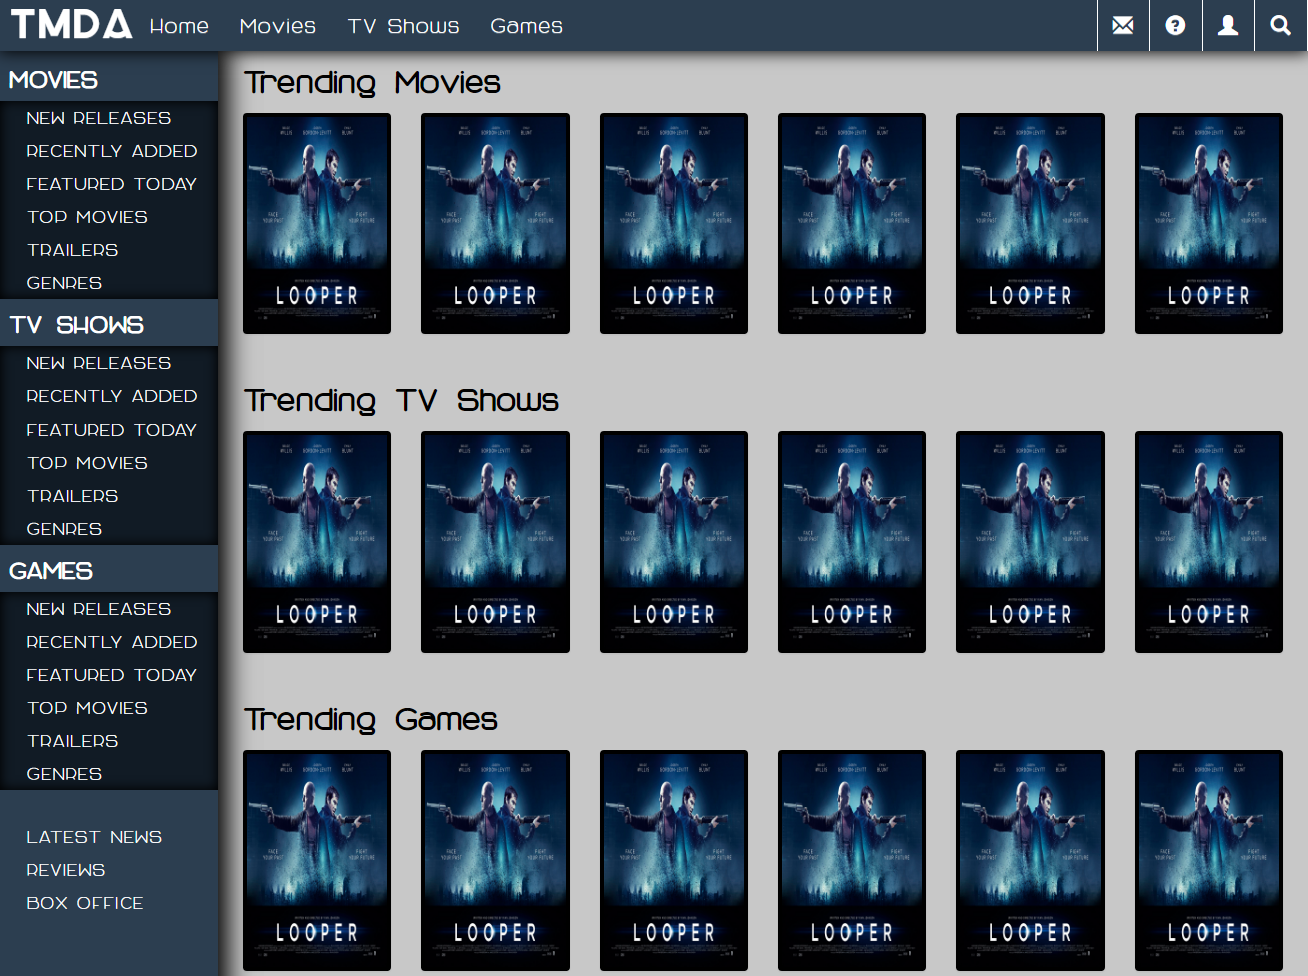
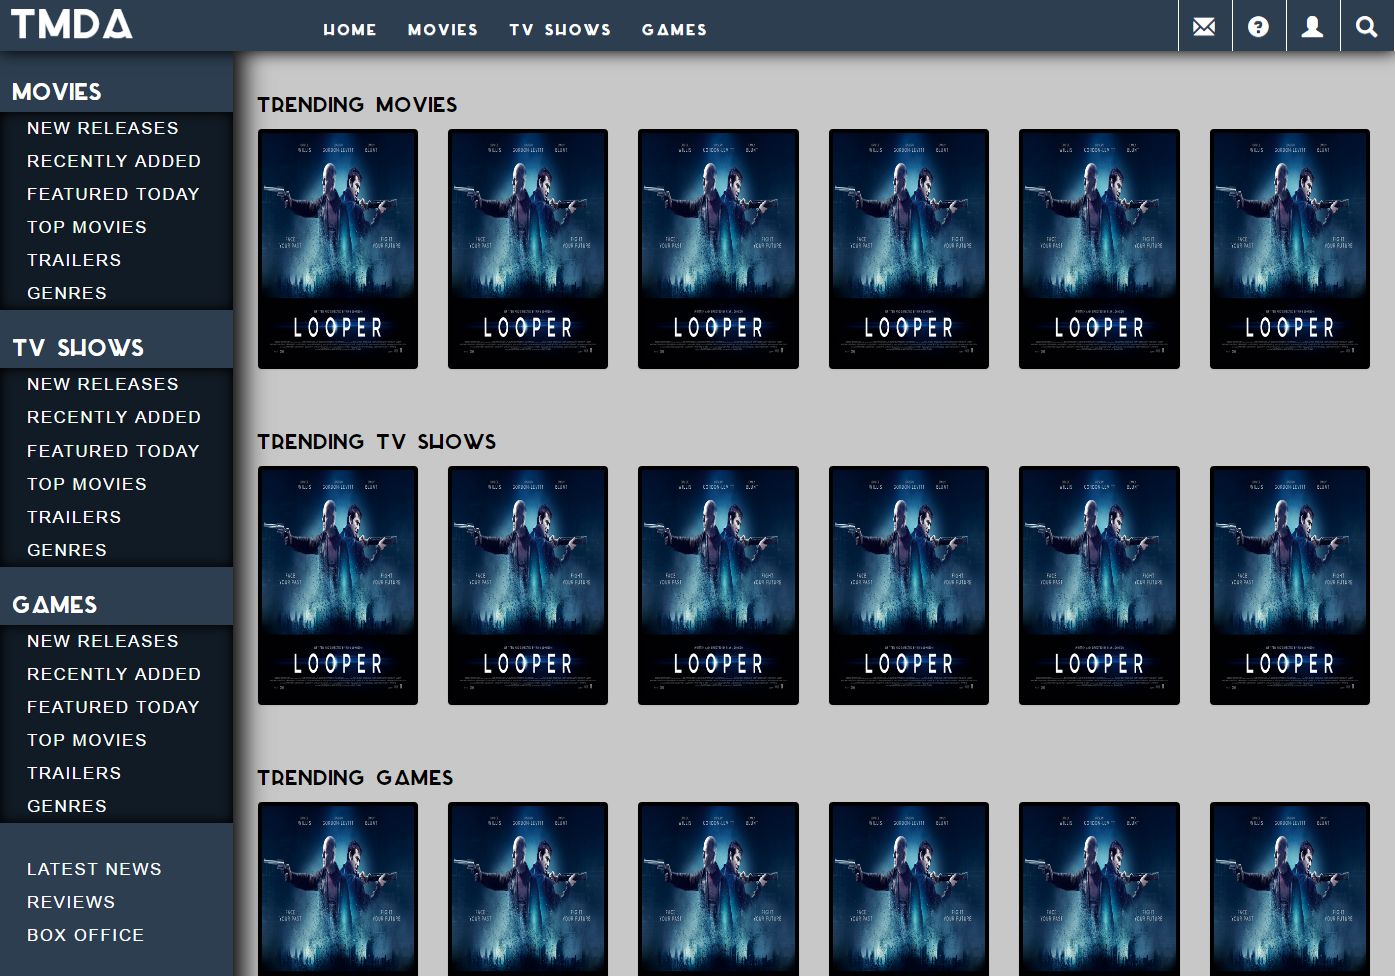
updated readme, projectimg, and typography

diff --git a/public/styles/mainstyle.css b/public/styles/mainstyle.css
@@ -23,7 +23,7 @@
   src: url("../fonts/Moderne-Sans.ttf") format("truetype"); }
 
 * {
-  font-family: 'magnitude'; }
+  font-family: 'azedo'; }
 
 a {
   color: white;
@@ -103,18 +103,19 @@ body {
       border-bottom: 0px solid transparent;
       box-shadow: 0px 0px 25px 1px black; }
       .main-wrapper .main-nav nav .navbar-header button span {
-        background-color: #c0392b; }
+        background-color: white; }
       .main-wrapper .main-nav nav .navbar-header .navbar-brand {
         font-family: "azedo";
         font-size: 4em;
         padding: 0;
         color: white;
         padding-left: 0.2em;
-        letter-spacing: 0em; }
+        letter-spacing: 0em;
+        padding-right: 3.1em; }
         .main-wrapper .main-nav nav .navbar-header .navbar-brand:hover {
           color: white; }
       .main-wrapper .main-nav nav #navbar-menu ul li a {
-        font-size: 1.4em; }
+        font-size: 1.5em; }
       .main-wrapper .main-nav nav #navbar-menu > .navbar-nav:nth-child(1) a:hover, .main-wrapper .main-nav nav #navbar-menu > .navbar-nav:nth-child(1) a:active, .main-wrapper .main-nav nav #navbar-menu > .navbar-nav:nth-child(1) a:focus {
         background-color: transparent; }
       .main-wrapper .main-nav nav .navbar-right {
@@ -137,9 +138,9 @@ body {
     min-height: 100vh; }
     .main-wrapper .main-content .aside-container .aside-row .sidebar .block h1 {
       color: white;
-      font-weight: 700;
+      font-weight: 0;
       padding-left: 0.4em;
-      font-size: 1.6em;
+      font-size: 2.3em;
       text-transform: uppercase;
       margin-top: 3px; }
     .main-wrapper .main-content .aside-container .aside-row .sidebar .block ul {
@@ -151,6 +152,7 @@ body {
         .main-wrapper .main-content .aside-container .aside-row .sidebar .block ul li a {
           text-transform: uppercase;
           display: block;
+          font-family: 'arial';
           font-size: 1.2em;
           padding: 0.3em 0.2em 0.3em 1.6em;
           transition: 0.1s ease-in-out;

diff --git a/scss/mainstyle.scss b/scss/mainstyle.scss
@@ -28,7 +28,7 @@
 }
 
 * {
-  font-family: 'magnitude';
+  font-family: 'azedo';
 }
 
 li {
@@ -129,7 +129,7 @@ body {
       .navbar-header {
         button {
           span {
-            background-color: #c0392b;
+            background-color: white;
           }
         }
         .navbar-brand {
@@ -139,6 +139,7 @@ body {
           color: white;
           padding-left: 0.2em;
           letter-spacing: 0em;
+          padding-right: 3.1em;
           &:hover {
             color: white;
           }
@@ -148,7 +149,7 @@ body {
         ul {
           li {
             a {
-              font-size: 1.4em;
+              font-size: 1.5em;
             }
           }
         }
@@ -180,6 +181,7 @@ body {
       }
     }
   }
+  
   .main-content {
     .aside-container {
       .aside-row {
@@ -193,9 +195,9 @@ body {
       .block {
          h1 {
           color: white;
-          font-weight: 700;
+          font-weight: 0;
           padding-left: 0.4em;
-          font-size: 1.6em;
+          font-size: 2.3em;
           text-transform: uppercase;
           margin-top: 3px;
          }
@@ -208,6 +210,7 @@ body {
             a {
               text-transform: uppercase;
               display: block;
+              font-family: 'arial';
               font-size: 1.2em;
               padding: 0.3em 0.2em 0.3em 1.6em;
               transition: 0.1s ease-in-out;

diff --git a/README.md b/README.md
@@ -1,2 +1,2 @@
 # The Movie Database App
-<img src="public/img/projectimg.png">
+<img src="public/img/projectimg2.png">
